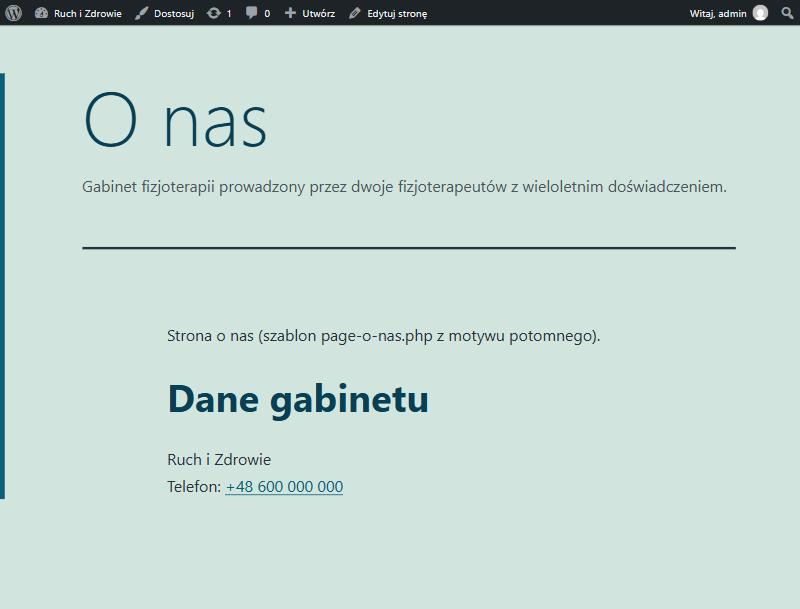
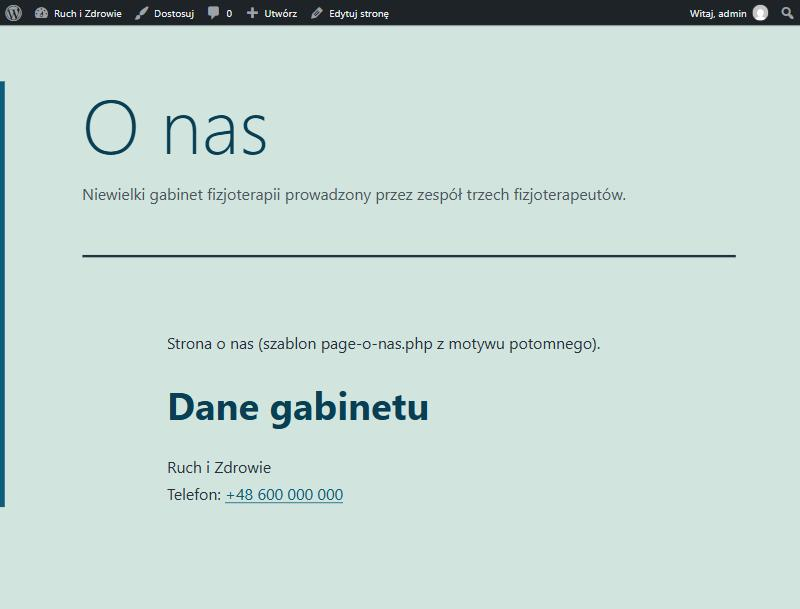
fix: docker-compose w Codespaces, spojnosc danych

diff --git a/README.md b/README.md
@@ -106,7 +106,9 @@ Sprawdzone 18.11.2026 (`mojafirma` 1.1.1, `mf-child` 1.1.0):
 - **`mf-child` na żywo** (blueprint `tools/mf-child-blueprint.json`: Twenty Twenty-One + `mf-child` + strony testowe): w edytorze w panelu „Style” są style „Z cieniem” i „Karta” i działają w podglądzie (`screenshots/01`, `02`); na stronie `/style-blokow/` (`03`); strona `/o-nas/` używa `page-o-nas.php` (pionowa kreska marki, zajawka, „Dane gabinetu”, `04`), a `/kontakt/` zwykłego `page.php` rodzica (`05`); pod wpisem jest notka z filtra `the_content` (`06`).
 - **Create Block Theme:** eksport do ZIP i instalacja tego ZIP-a (sekcja 5).
 
-Nie sprawdzono: czytnik ekranu oraz uruchomienie `docker-compose.yml`.
+- **`docker-compose.yml` w GitHub Codespaces:** oba kontenery (MariaDB 11, WordPress na PHP 8.3) startują, WordPress instaluje się po polsku pod portem 8080, a zamontowane katalogi `mojafirma` i `mf-child` są widoczne w `wp-content/themes`; `mojafirma` 1.1.1 działa jako aktywny motyw. Do pliku dodano `WORDPRESS_CONFIG_EXTRA`, bo za proxy Codespaces WordPress przekierowywał na `localhost:8080`. Zrzuty są w paczce MP1 (`docker-codespaces/`).
+
+Nie sprawdzono: czytnik ekranu.
 
 ## 7. Użycie AI
 
